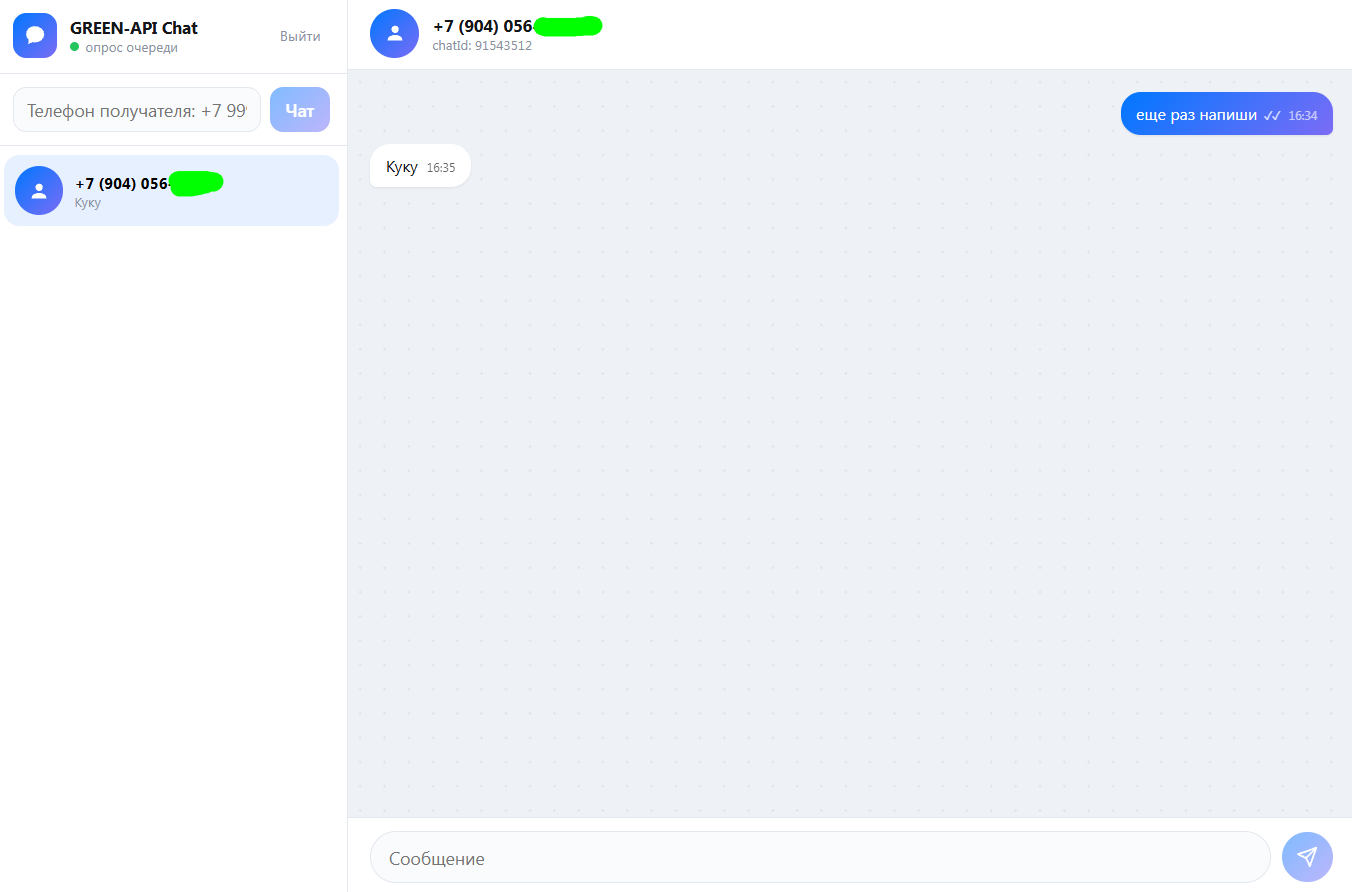
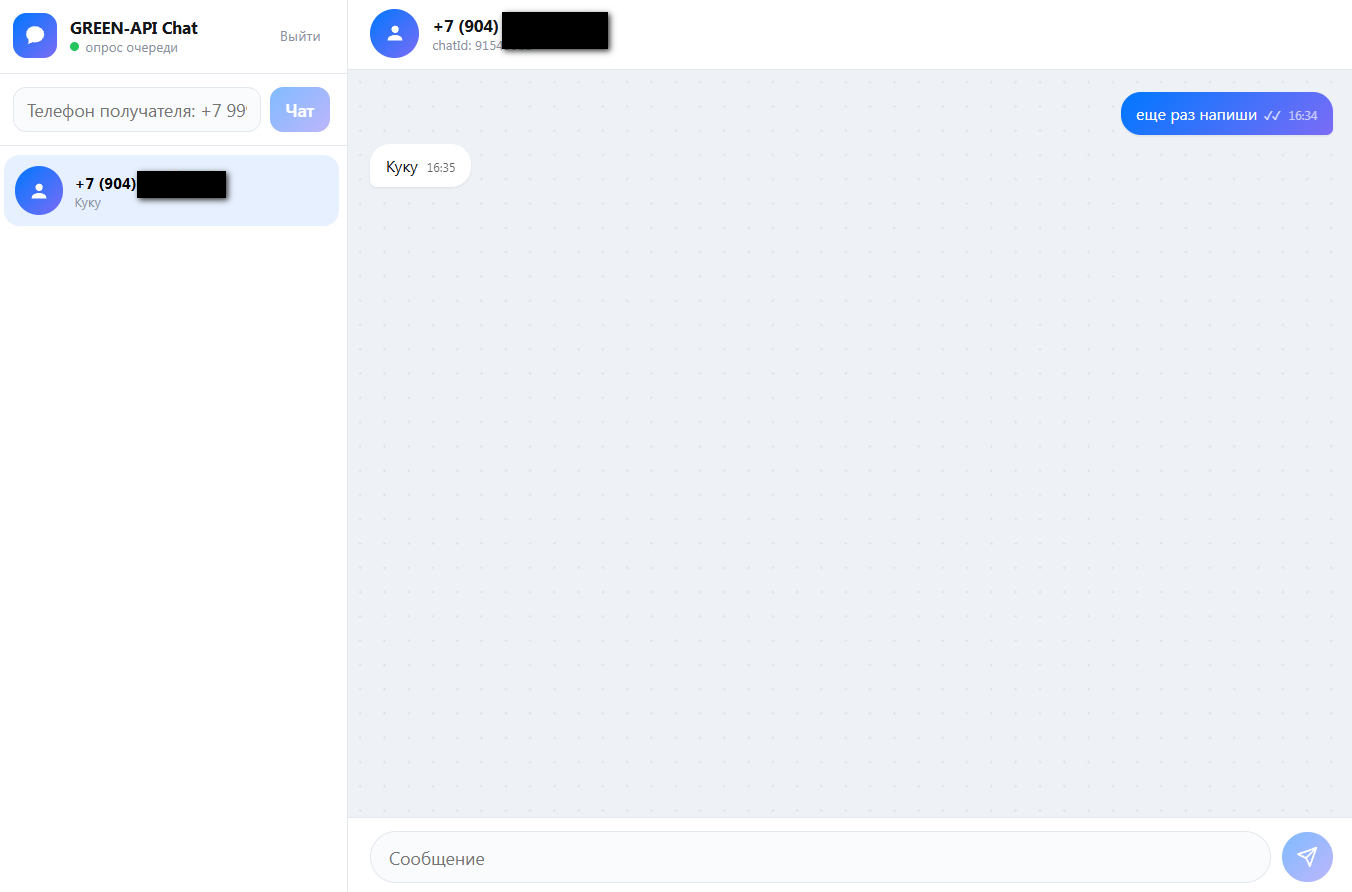
docs: rewrite README, update screenshots

Changed region(s): [[0.3728, 0.0, 0.466, 0.0605], [0.0932, 0.1816, 0.1864, 0.2422]]

diff --git a/README.md b/README.md
@@ -1,56 +1,60 @@
-```markdown
 # 🟢 GREEN-API MAX Chat
 
-Веб-чат для отправки и получения текстовых сообщений в мессенджере MAX через GREEN-API. Тестовое задание на позицию Frontend-разработчик (React).
+Веб-чат для отправки и получения текстовых сообщений в мессенджере MAX через [GREEN-API](https://green-api.com). Тестовое задание на позицию Frontend-разработчик (React).
 
-[![React](https://img.shields.io/badge/React-18-blue)](https://react.dev)
-[![TypeScript](https://img.shields.io/badge/TypeScript-5-blue)](https://www.typescriptlang.org)
-[![Vite](https://img.shields.io/badge/Vite-5-purple)](https://vitejs.dev)
-[![License: MIT](https://img.shields.io/badge/License-MIT-green)](LICENSE)
+![React](https://img.shields.io/badge/React-19-blue)
+![TypeScript](https://img.shields.io/badge/TypeScript-6-blue)
+![Vite](https://img.shields.io/badge/Vite-8-purple)
+![License: MIT](https://img.shields.io/badge/License-MIT-green)
 
-## 🚀 Живое демо
-
-🔗 **[Открыть приложение](https://green-api-max-chat.vercel.app)**
-🎥 **[Видео-демо (16 сек)](https://dmitrymironov.ru/uploads/media/greenchatapi.mp4)**
+## 🚀 Демо
+**Открыть приложение:** https://green-api-max-chat.vercel.app 
+**Видео-демо (16 сек):** https://dmitrymironov.ru/uploads/media/greenchatapi.mp4
 
 Введите свои `idInstance` и `apiTokenInstance` из [кабинета GREEN-API](https://console.green-api.com), создайте чат по номеру телефона и начните переписку.
 
 ## 📸 Скриншоты
 
-| Форма подключения | Диалог с доставкой |
-|---|---|
-| ![Login](docs/screenshots/01-login.png) | ![Chat](docs/screenshots/02-chat.png) |
+**Форма подключения**
 
-## ✅ Требования тестового задания (чек-лист)
+<img src="docs/screenshots/01-login.png" alt="Форма подключения" width="800" />
+
+**Диалог со статусами доставки**
+
+<img src="docs/screenshots/02-chat.png" alt="Диалог" width="800" />
+
+## ✅ Требования тестового задания
 
 | # | Требование | Реализация |
 |---|---|---|
 | 1 | Веб-приложение для отправки и получения сообщений в MAX | ✅ React + TypeScript SPA |
-| 2 | Отправка текстовых сообщений (метод `SendMessage`) | ✅ `src/api/greenApi.ts:sendMessage` |
-| 3 | Получение сообщений (HTTP API или вебхуки) | ✅ Поллинг `receiveNotification`, `src/hooks/useIncoming.ts` |
+| 2 | Отправка текстовых сообщений (`SendMessage`) | ✅ `src/api/greenApi.ts` → `sendMessage` |
+| 3 | Получение сообщений (HTTP API или вебхуки) | ✅ Поллинг `receiveNotification` + `deleteNotification`, `src/hooks/useIncoming.ts` |
 | 4 | Интерфейс в стиле web.max.ru | ✅ Сайдбар + окно чата, пузыри, аватары |
 | 5 | Авторизация через `idInstance` + `apiTokenInstance` | ✅ `LoginForm`, хранение в `localStorage` |
-| 6 | История сообщений сохраняется между сессиями | ✅ `src/lib/storage.ts` (localStorage) |
-| 7 | Статусы доставки сообщений | ✅ ✓ → ✓✓ → ✓✓ (прочитано), через `outgoingMessageStatus` |
-| 8 | Адаптивный дизайн (мобильная версия) | ✅ CSS Grid + media queries |
+| 6 | История сообщений между сессиями | ✅ `src/lib/storage.ts` |
+| 7 | Статусы доставки | ✅ ⏳ → ✓ → ✓✓ → ✓✓ (прочитано) через `outgoingMessageStatus` |
+| 8 | Адаптивный дизайн | ✅ CSS Grid + media queries |
 
 ## 🛠 Стек
 
-- **React 18** + **TypeScript** (строгая типизация, `noImplicitAny`)
+- **React 19** + **TypeScript** (без `any`)
 - **Vite** (dev-сервер с CORS-прокси, HMR)
-- **Чистый CSS** (без UI-библиотек — для портфолио)
-- **localStorage** (история чатов и креды)
-- **GREEN-API** (REST API мессенджера MAX)
+- **Чистый CSS** (без UI-библиотек)
+- **localStorage** — история чатов и креды
+- **GREEN-API** — REST API мессенджера MAX
 
 ## 🏗 Архитектура
 
-### Почему поллинг, а не вебхуки?
+### Почему поллинг, а не вебхуки
 
-Тестовое задание — про фронтенд. Вебхукам нужен бэкенд (сервер, который примет POST от GREEN-API и перешлёт в браузер через WebSocket). Поллинг очереди `receiveNotification` каждые 5 секунд — это pure frontend, работает даже на статическом хостинге.
+Тестовое задание — про фронтенд. Вебхукам нужен бэкенд, который примет POST от GREEN-API и перешлёт его в браузер. Поллинг очереди `receiveNotification` — pure frontend, работает на статическом хостинге.
+
+Схема цикла: `receiveNotification` → обработка → `deleteNotification` → пауза 5 с → повтор.
 
 ### CORS и прокси
 
-GREEN-API не отдаёт `Access-Control-Allow-Origin` для браузеров. Решение: **Vite dev proxy** локально, **serverless function** на Vercel в проде. Браузер ходит на свой origin, прокси пересылает запросы на `*.api.green-api.com`.
+GREEN-API не отдаёт `Access-Control-Allow-Origin` для браузеров. Локально используется **Vite dev proxy**, браузер ходит на свой origin.
 
 ```ts
 // vite.config.ts
@@ -67,30 +71,26 @@ server: {
 
 ### chatId ≠ номер телефона
 
-В MAX `chatId` — это внутренний ID аккаунта (например, `91543512`), а не номер телефона. Отправка по номеру работает, но только для РФ/РБ и без возможности принимать входящие. Решение: перед созданием чата вызываем `CheckAccount`, получаем `chatId`, и только потом создаём диалог.
+В MAX `chatId` — внутренний ID аккаунта (например, `91543512`), а не номер телефона. Перед созданием чата вызывается `checkAccount`, из ответа берётся `chatId`, и только потом открывается диалог.
 
 ```ts
 const account = await checkAccount(credentials, phone);
-const chatId = String(account.chatId); // "91543512"
+const chatId = String(account.chatId);
 ```
 
-## 🕳 Грабли и выводы
+## 🕳 Грабли и решения
 
-### 1. Квота тарифа «Разработчик»
+### 1. Пустое тело ответа `receiveNotification`
 
-На бесплатном тарифе GREEN-API разрешено переписываться только с **3 чатами в месяц**. Превышение = ошибка `466 CORRESPONDENTS_QUOTA_EXCEEDED`. Решение: дисциплина квоты (тестовый собеседник + «Избранное» + неприкосновенный запас). При пересоздании инстанса квота сбрасывается, но учёт удалённых инстансов сохраняется на уровне аккаунта.
+При пустой очереди GREEN-API возвращает пустую строку, а не `[]` или `null`. `res.json()` падает с `Unexpected end of JSON input`. Решение: читаем `res.text()`, проверяем на пустоту, потом парсим.
 
-### 2. Пустое тело ответа `receiveNotification`
+### 2. Структура уведомлений MAX
 
-Когда очередь пуста, GREEN-API возвращает пустое тело (не `[]`, не `null`, а пустую строку). `res.json()` падает с `Unexpected end of JSON input`. Решение: читаем как `res.text()`, проверяем на пустоту, потом парсим.
+В MAX текст приходит как `messageData.extendedTextMessageData.text`, а не `textMessageData.textMessage`, как в WhatsApp. В парсере — перебор вариантов с защитой от `undefined`.
 
 ### 3. Кластерные хосты
 
-Каждому инстансу выдаётся свой `apiUrl` (например, `https://3100.api.green-api.com`), а не универсальный `api.green-api.com`. Прокси должен быть настроен под конкретный кластер. Решение: динамический `apiUrl` из `idInstance` (первые 4 цифры = номер кластера).
-
-### 4. Структура уведомлений MAX vs WhatsApp
-
-В MAX текстовые сообщения приходят как `messageData.extendedTextMessageData.text`, а не `textMessageData.textMessage`. Решение: перебор вариантов в парсере, защита от `undefined`.
+Каждому инстансу выдаётся свой `apiUrl` (например, `https://3100.api.green-api.com`). В форме есть поле `apiUrl`; если оставить пустым — хост выводится из первых 4 цифр `idInstance`.
 
 ## 🚀 Запуск локально
 
@@ -102,27 +102,14 @@ npm run dev
 # открыть http://localhost:5173
 ```
 
-Введите `idInstance`, `apiTokenInstance`, `apiUrl` (оставьте пустым — выведется автоматически) из [кабинета GREEN-API](https://console.green-api.com).
+Введите `idInstance`, `apiTokenInstance`, `apiUrl` (можно оставить пустым — выведется из `idInstance`) из [кабинета GREEN-API](https://console.green-api.com).
 
-## 🔒 Security
+## 🔒 Безопасность
 
-- `apiTokenInstance` хранится **только** в `localStorage` браузера пользователя и **никогда** не коммитится в репозиторий.
-- На задеплоенной версии каждый посетитель вводит свои креды — чужие токены недоступны.
-- Перед публикацией скриншотов/видео замазывайте `idInstance`, `apiTokenInstance`, номера телефонов, имена контактов.
-- В проде проксирует serverless-функция (Vercel Edge Function) с whitelist `*.api.green-api.com` — токены не уходят на сторонние сервисы.
-
-## 🌐 Деплой
-
-> **TODO:** Настроить деплой на Vercel с serverless-прокси `/api/*` для обхода CORS. Каждый посетитель будет вводить свой `apiUrl` в форме, и прокси пересылать запросы на нужный кластер.
+- `apiTokenInstance` хранится **только** в `localStorage` браузера пользователя и никогда не коммитится.
+- В этом прототипе токен уходит напрямую в GREEN-API через dev-прокси. **В проде токен уводится за бэкенд-прокси**, чтобы не светить его в браузере.
+- Перед публикацией скриншотов и видео замазывайте `idInstance`, `apiTokenInstance`, номера телефонов и имена контактов.
 
 ## 📝 License
 
-MIT — используйте свободно.
-
----
-
-**Автор:** Дмитрий Миронов  
-**Email:** [mdsdzr@gmail.com](mailto:mdsdzr@gmail.com)  
-**GitHub:** [dmironovru](https://github.com/dmironovru)  
-**Сайт:** [dmitrymironov.ru](https://dmitrymironov.ru)
-```
+MIT
